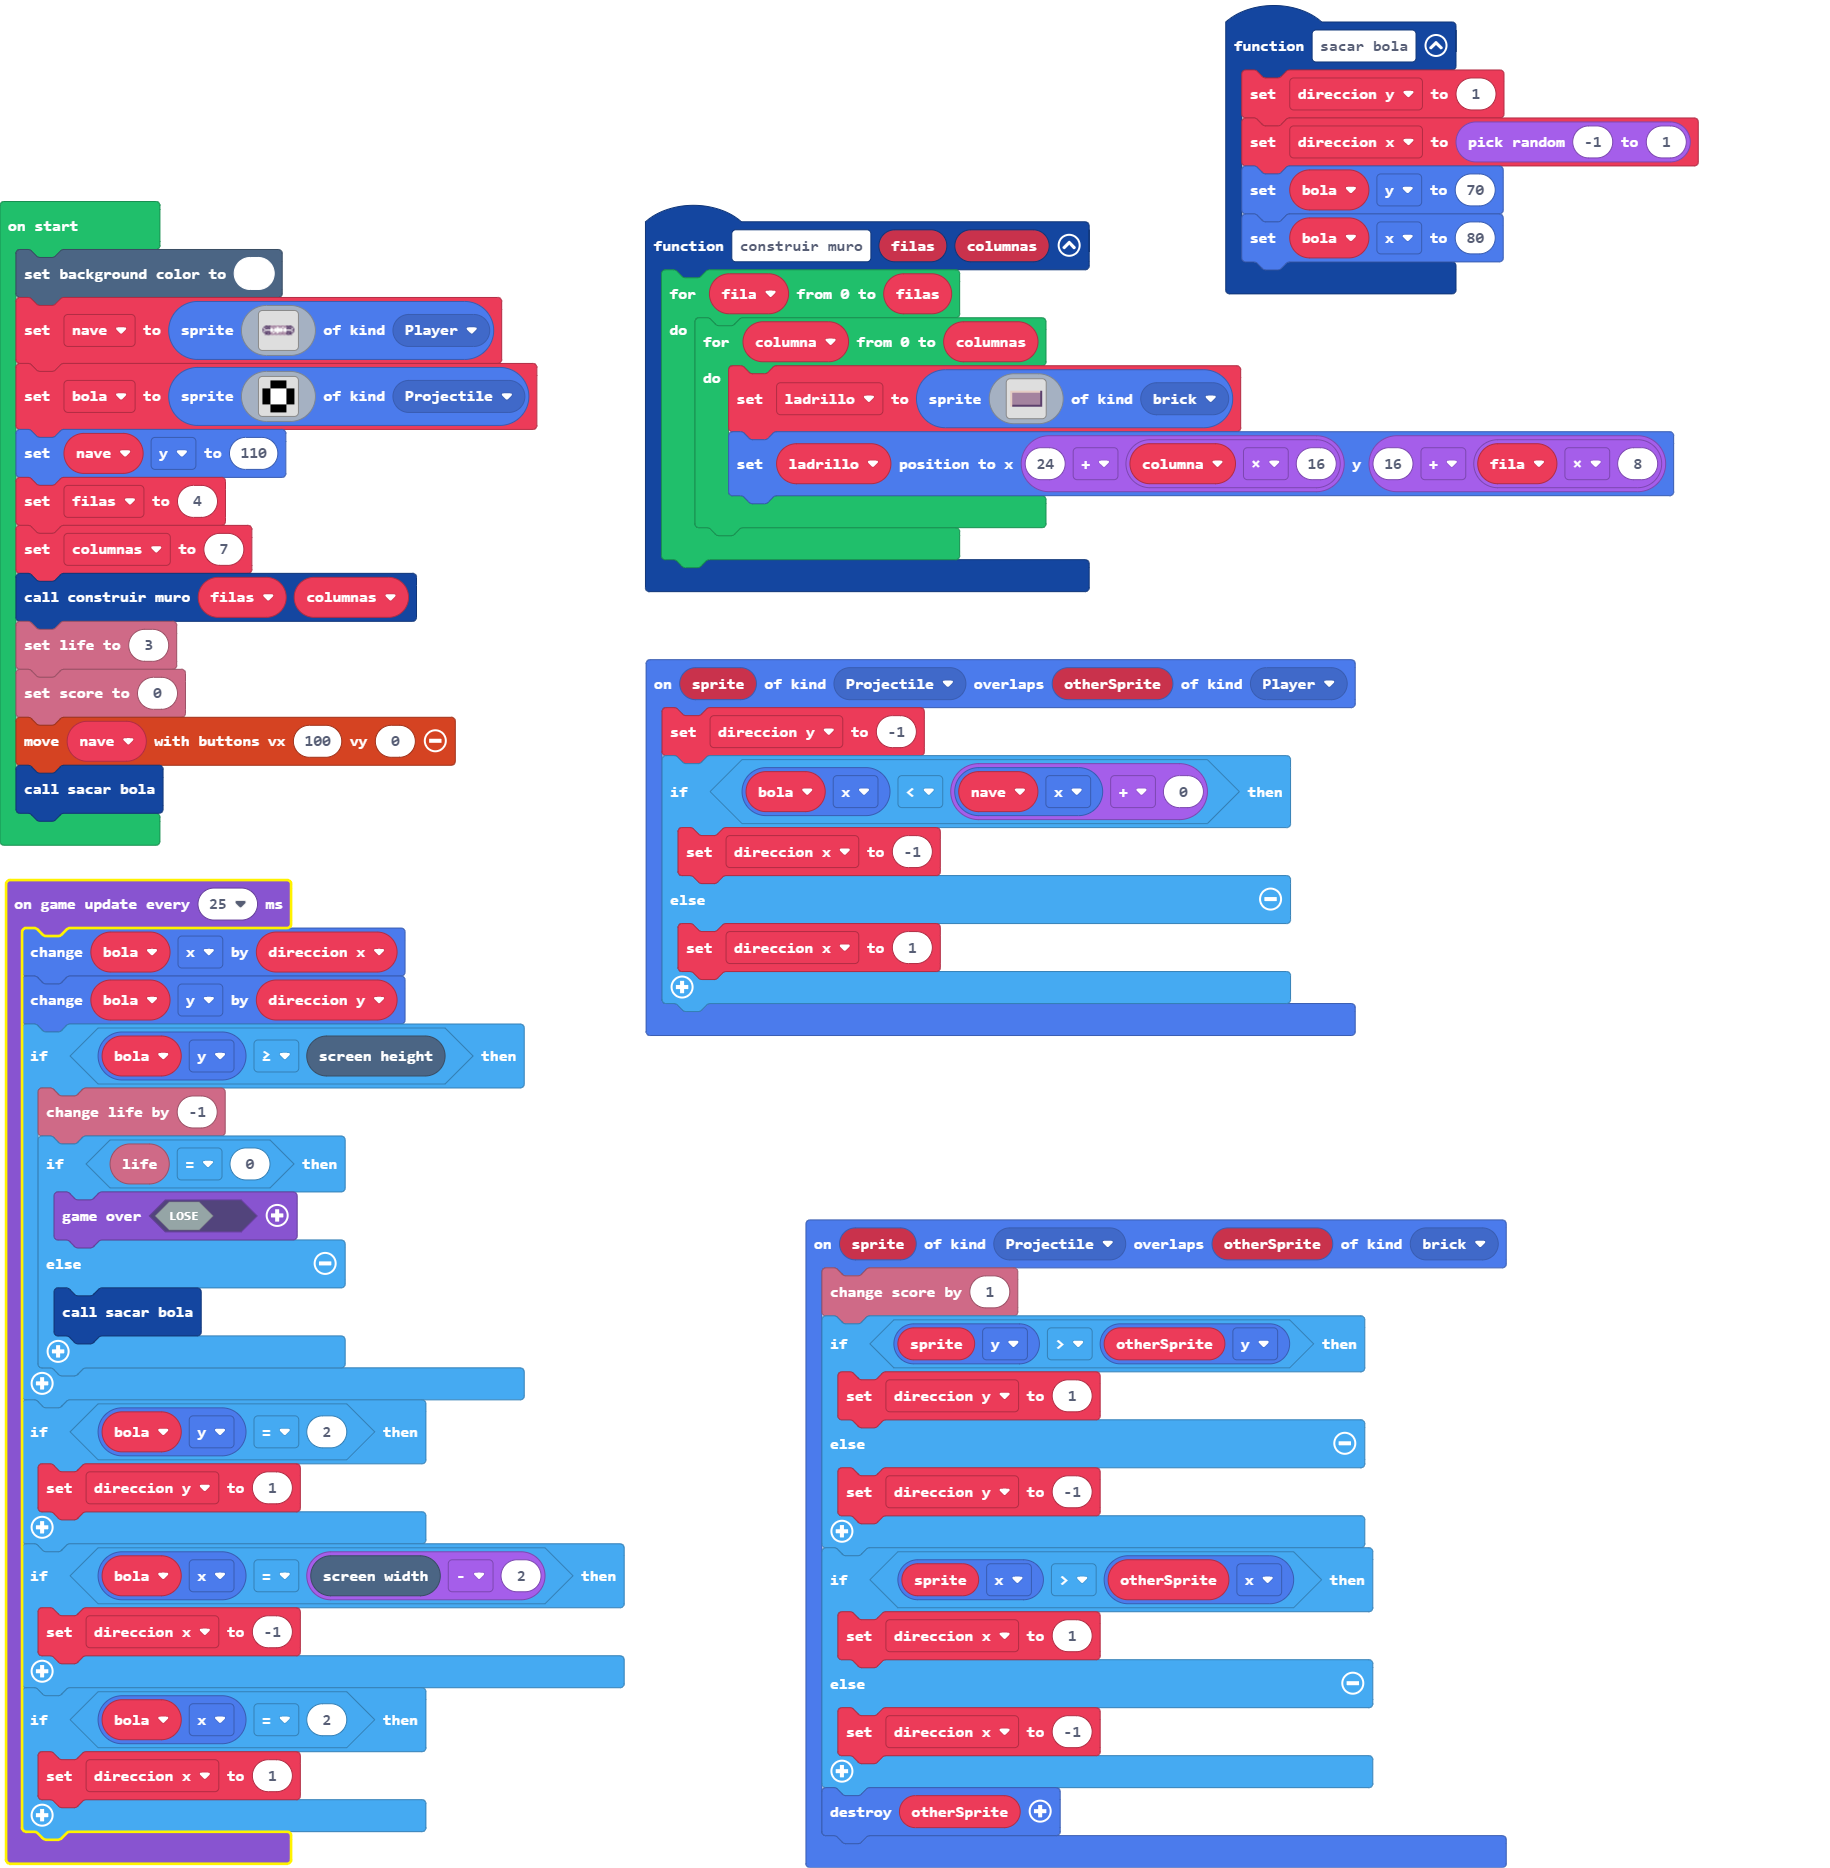
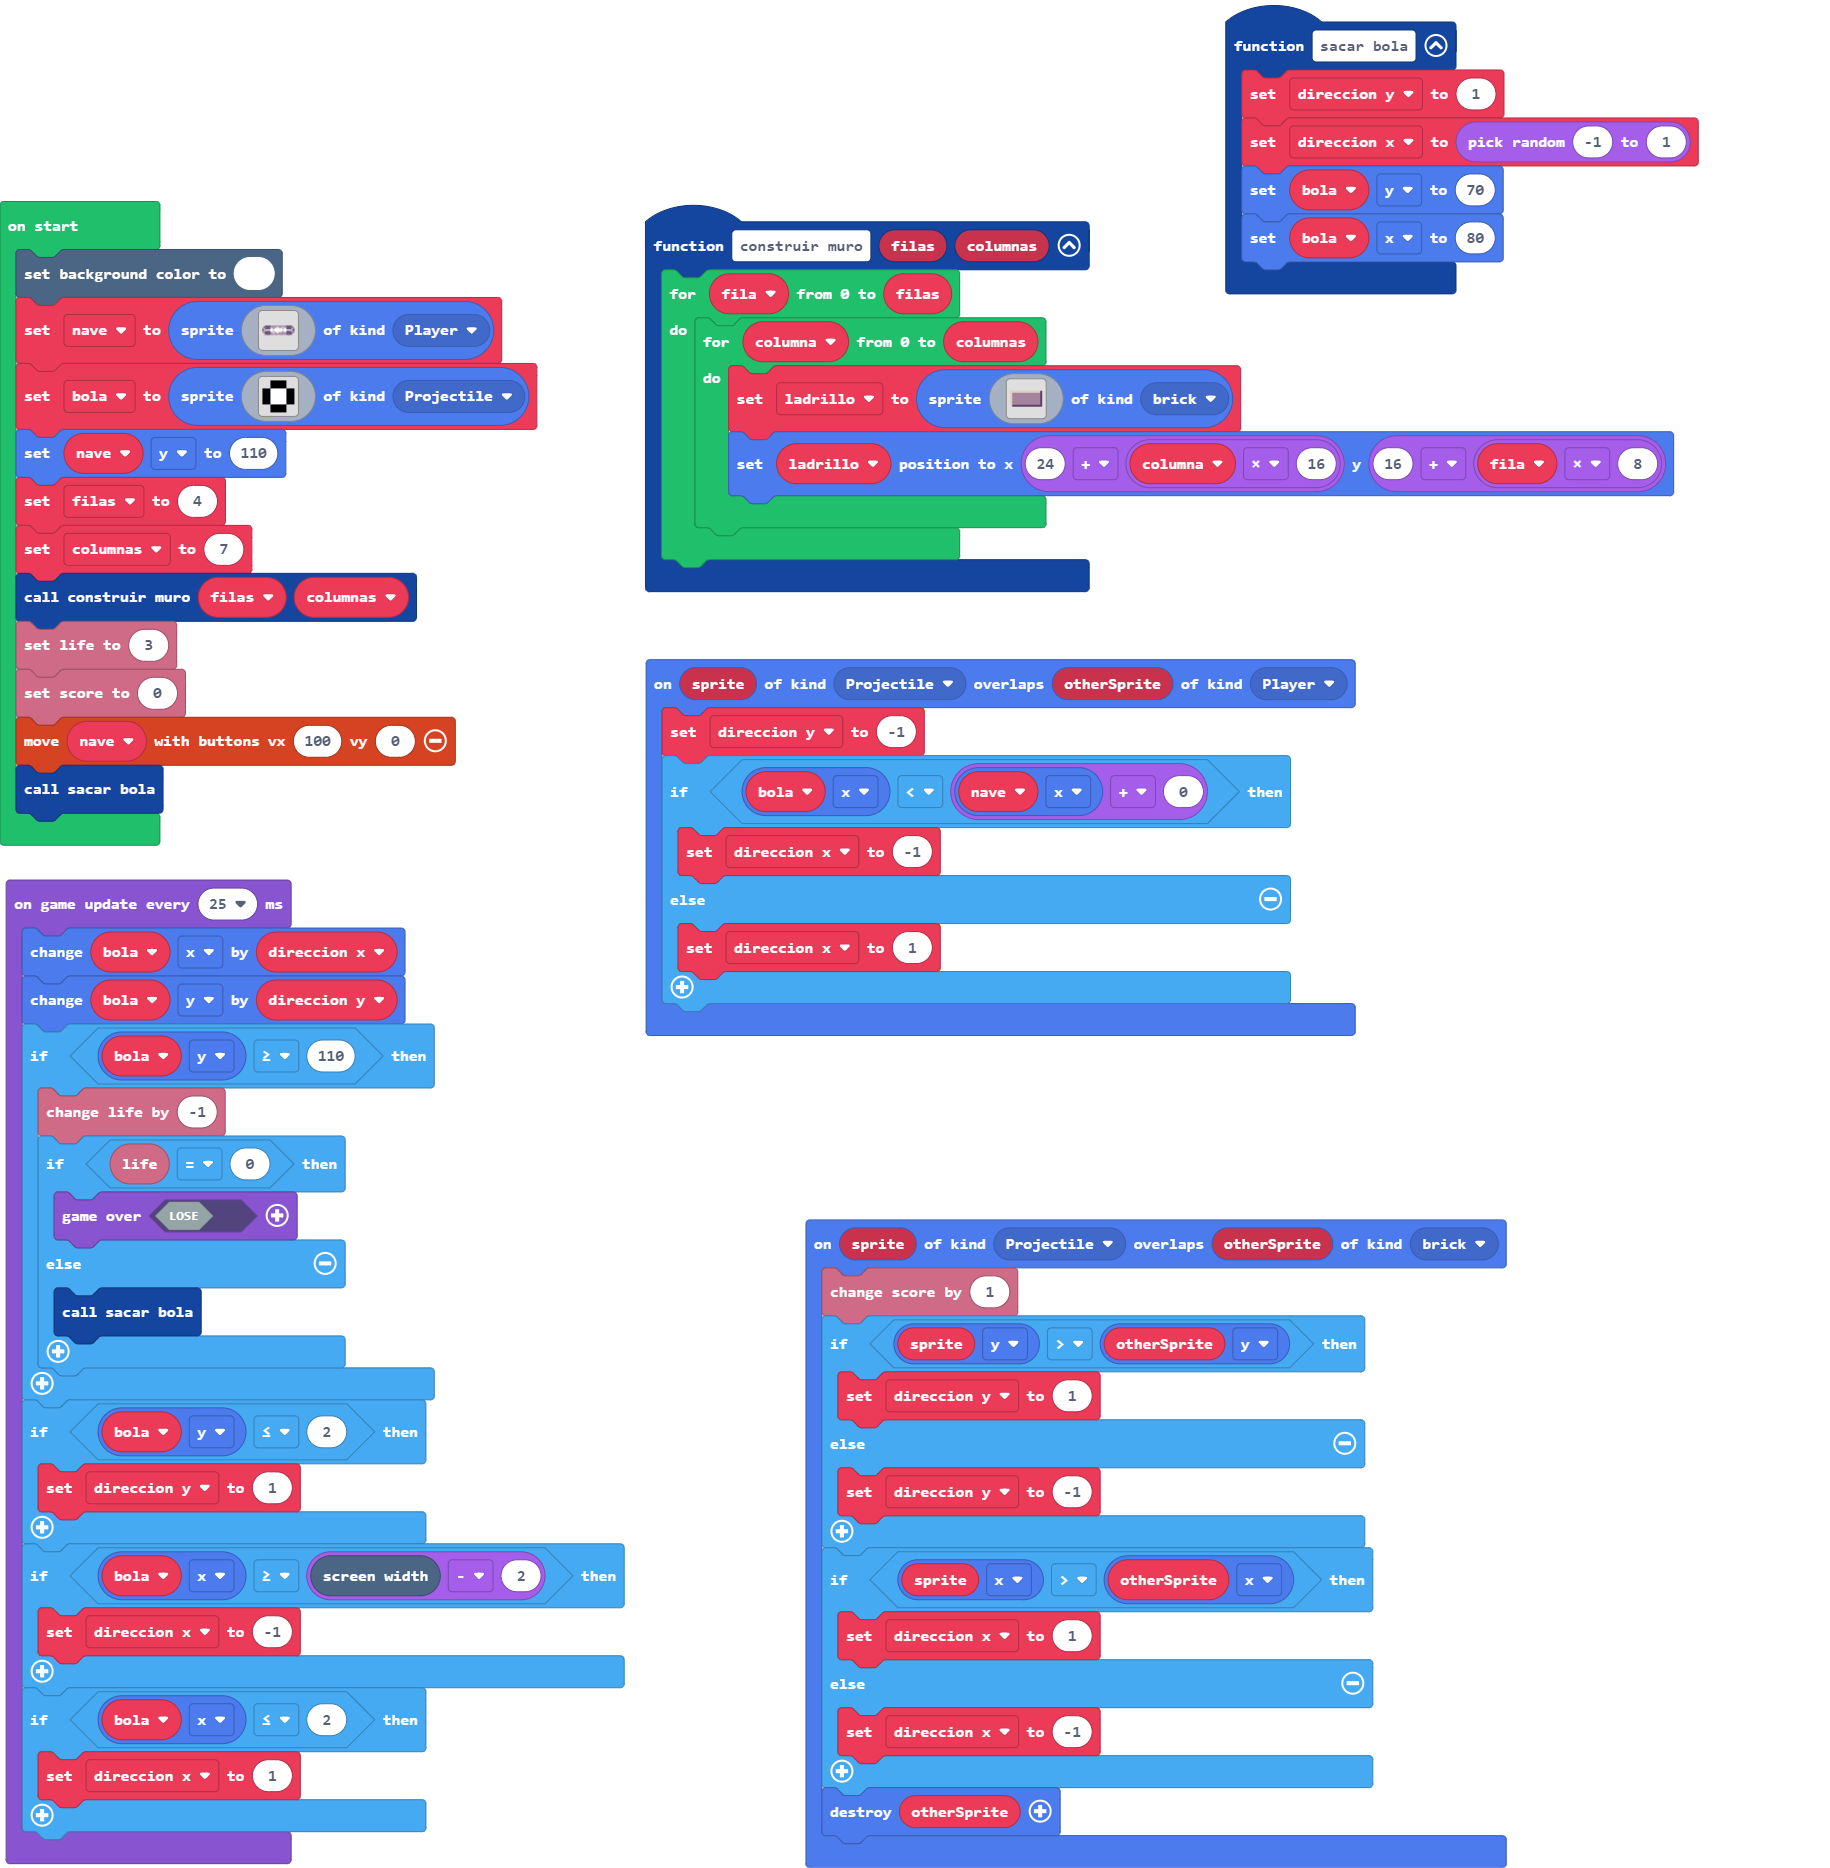
Corregidos los limites de la pantalla para que la bola no se escape

diff --git a/main.ts b/main.ts
@@ -78,7 +78,7 @@ sacar_bola()
 game.onUpdateInterval(25, function () {
     bola.x += direccion_x
     bola.y += direccion_y
-    if (bola.y >= scene.screenHeight()) {
+    if (bola.y >= 110) {
         info.changeLifeBy(-1)
         if (info.life() == 0) {
             game.over(false)
@@ -86,13 +86,13 @@ game.onUpdateInterval(25, function () {
             sacar_bola()
         }
     }
-    if (bola.y == 2) {
+    if (bola.y <= 2) {
         direccion_y = 1
     }
-    if (bola.x == scene.screenWidth() - 2) {
+    if (bola.x >= scene.screenWidth() - 2) {
         direccion_x = -1
     }
-    if (bola.x == 2) {
+    if (bola.x <= 2) {
         direccion_x = 1
     }
 })
